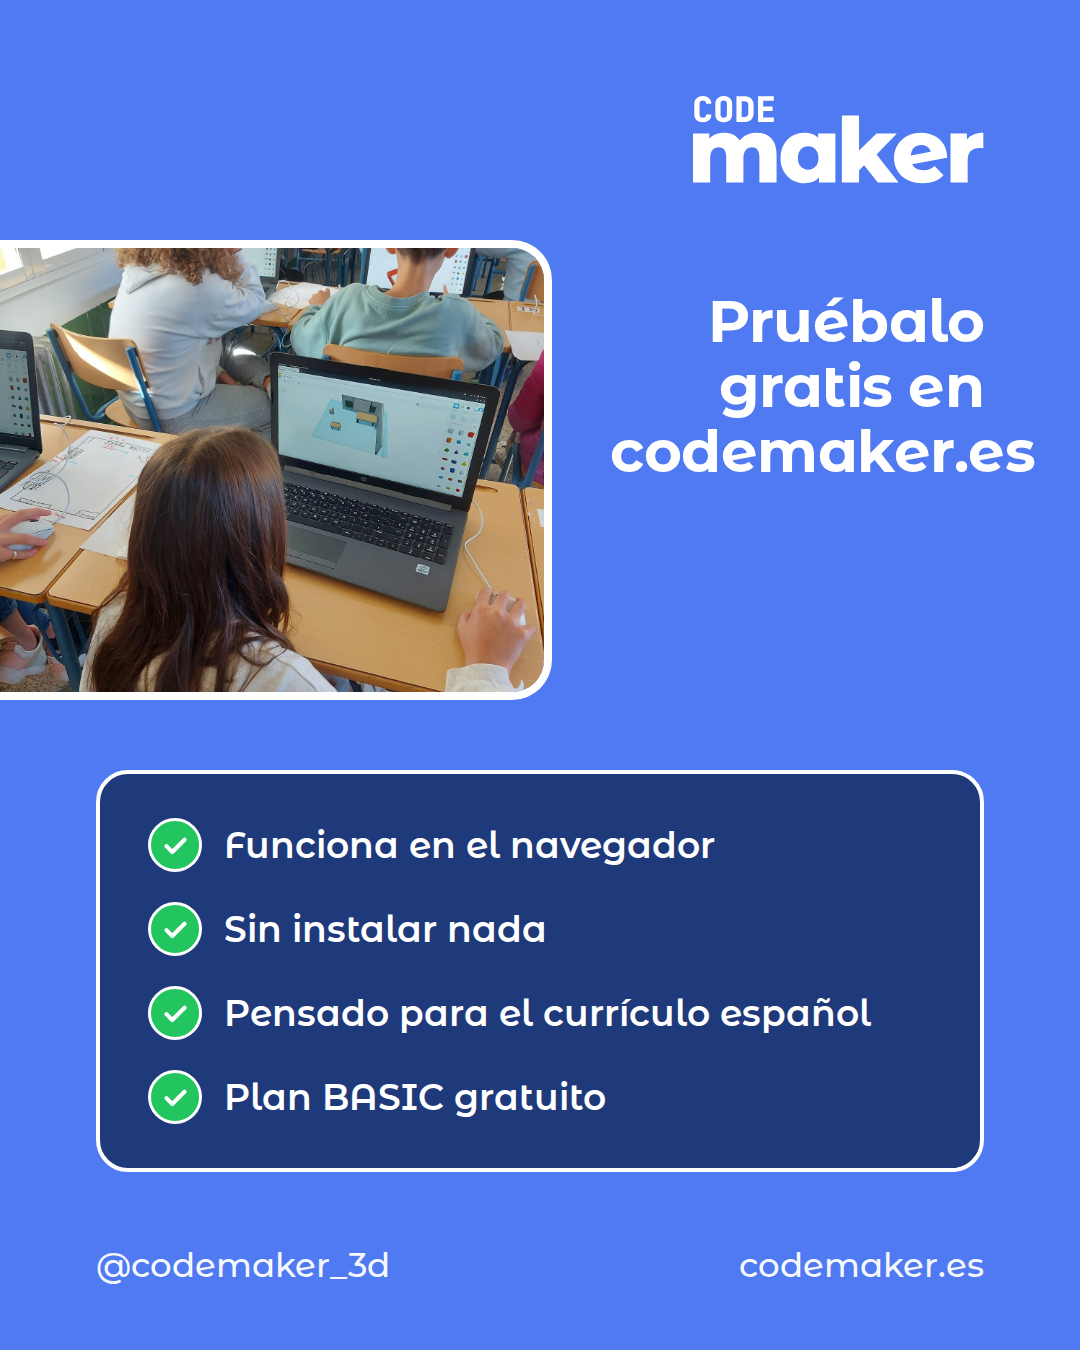
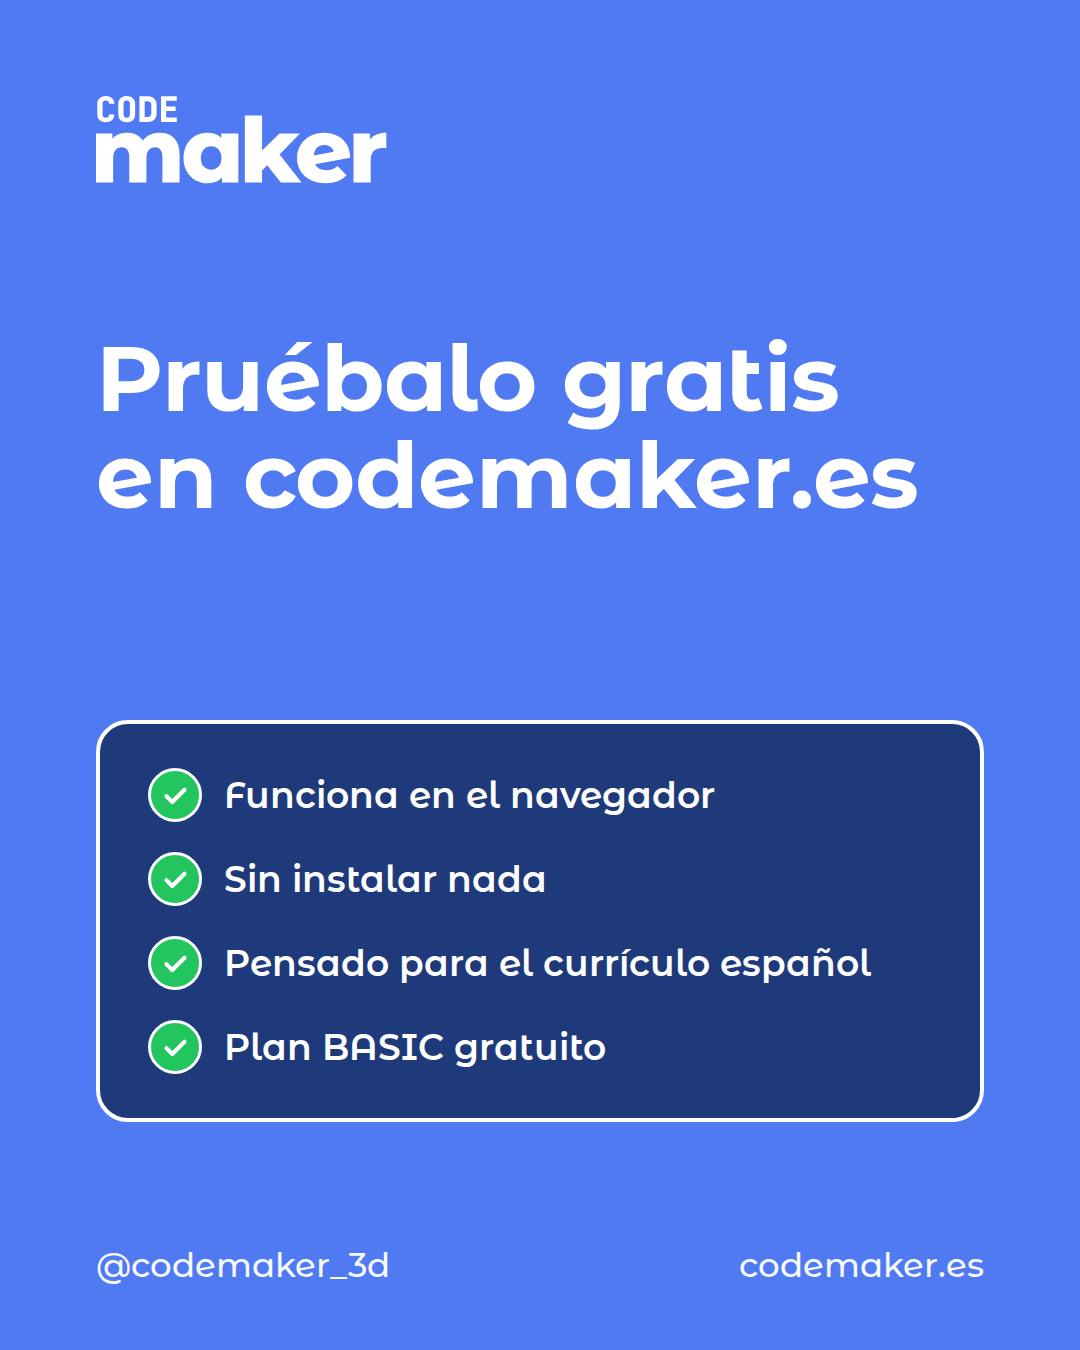
Presentación: capturas nuevas de los studios y cierre sin foto
Claude-Session: https://claude.ai/code/session_01MjDm7L8e3XfAcN7qQL7szP

diff --git a/publicaciones/01-presentacion/carrusel.html b/publicaciones/01-presentacion/carrusel.html
@@ -14,15 +14,15 @@
   /* Un studio por lámina */
   .studio .cabecera { position: absolute; top: var(--margen); left: var(--margen); right: var(--margen);
                       display: flex; justify-content: space-between; align-items: center; }
-  .studio .captura { position: absolute; top: 210px; left: var(--margen); width: 888px; height: 600px; }
-  .studio h2 { position: absolute; top: 870px; left: var(--margen); width: 888px; }
-  .studio p  { position: absolute; top: 1040px; left: var(--margen); width: 740px; }
+  .studio .captura { position: absolute; top: 210px; left: var(--margen); width: 888px; height: 472px; }
+  /* Las capturas de la web son 1,91:1; con esta altura se ven enteras, sin recortar */
+  .studio h2 { position: absolute; top: 760px; left: var(--margen); width: 888px; }
+  .studio p  { position: absolute; top: 930px; left: var(--margen); width: 740px; }
 
   /* Cierre */
-  .cierre .foto { position: absolute; top: 240px; left: -8px; width: 560px; height: 460px;
-                  border-radius: 0 var(--radio) var(--radio) 0; border-left: none; }
-  .cierre h2 { position: absolute; top: 290px; left: 610px; right: var(--margen); text-align: right; font-size: 58px; }
-  .cierre .checks { position: absolute; top: 770px; left: var(--margen); right: var(--margen); }
+  .cierre h2 { position: absolute; top: 330px; left: var(--margen); right: var(--margen); font-size: 92px; line-height: 1.05; }
+  .cierre h2 span { display: block; }
+  .cierre .checks { position: absolute; top: 720px; left: var(--margen); right: var(--margen); }
 </style>
 </head>
 <body>
@@ -85,9 +85,8 @@
 
 <!-- 7 · Cierre -->
 <section class="lamina cierre">
-  <img class="logo derecha" src="../../plantilla/marca/logo-blanco.svg" alt="Codemaker 3D">
-  <img class="captura foto" src="img/alumnos-portatil.jpg" alt="">
-  <h2>Pruébalo gratis en codemaker.es</h2>
+  <img class="logo" src="../../plantilla/marca/logo-blanco.svg" alt="Codemaker 3D">
+  <h2>Pruébalo gratis <span>en codemaker.es</span></h2>
   <ul class="checks">
     <li>Funciona en el navegador</li>
     <li>Sin instalar nada</li>
